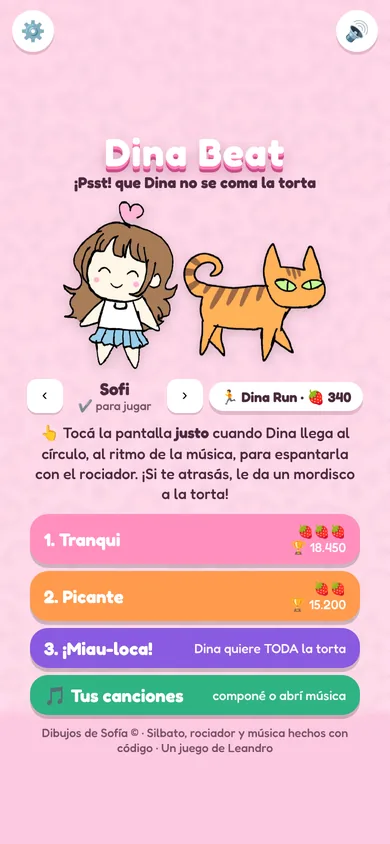
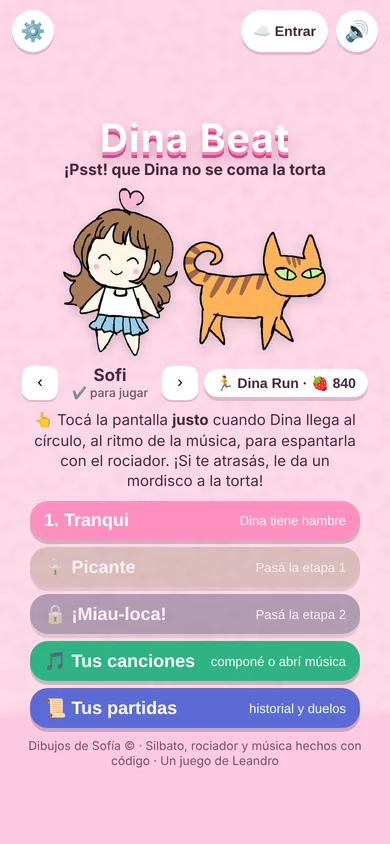
Portada: progreso en la nube, capturas nuevas (Sofi en Dina Run y Dina Beat, Cinthia en Torta Runner)
Claude-Session: https://claude.ai/code/session_01HEWaW1XwvhyT3fFeFD7JYR

diff --git a/index.html b/index.html
@@ -49,6 +49,7 @@ h1 em{font-style:normal;color:var(--rosa)}
 @keyframes cruza{from{transform:translateX(-90px)}to{transform:translateX(calc(100vw + 20px))}}
 @media (prefers-reduced-motion:reduce){.dina{animation:none;left:16px}}
 .bolsa{display:inline-flex;align-items:center;gap:8px;background:var(--papel);border:2px solid var(--borde);border-radius:999px;padding:6px 14px 6px 8px;font-weight:500}
+.bolsa[hidden]{display:none}
 .bolsa img{width:24px;height:24px;object-fit:contain}
 .bolsa b{font-variant-numeric:tabular-nums}
 
@@ -98,6 +99,7 @@ h2{margin:0;font:700 40px/1 var(--mano);color:var(--c-osc)}
 .proximo .ico{font-size:24px;line-height:1}
 .proximo h3{margin:0 0 2px;font:600 16px var(--ui)}
 .proximo p{margin:0;color:var(--suave);font-size:15px}
+.proximo p b{color:var(--tinta)}
 footer{font-size:14px;color:var(--suave);display:flex;flex-direction:column;gap:4px;border-top:3px dashed var(--borde);padding-top:16px}
 footer b{color:var(--tinta)}
 
@@ -123,22 +125,22 @@ footer b{color:var(--tinta)}
 
 <section class="juegos" aria-label="Juegos">
   <article class="juego run">
-    <div class="vista"><img src="img/dina-run.webp" alt="Partida de Dina Run: Sofi corre juntando frutillas mientras Dina la persigue" loading="lazy"></div>
+    <div class="vista"><img src="img/dina-run.webp" alt="Partida de Dina Run: Sofi salta una torta juntando frutillas mientras Dina la persigue" loading="lazy"></div>
     <div class="cuerpo">
       <div class="titulo"><img src="img/dina-run-icon.png" alt=""><div><h2>Dina Run</h2><p class="tipo">Corré sin parar · un toque</p></div></div>
       <p class="desc">Saltá las tortas, juntá frutillas y elegí dulces en el camino. Si chocás, Dina sale a correrte. Con personajes, cosméticos, Pastelería y, en Halloween, su pase.</p>
-      <ul class="chips"><li>🎃 Pase de Halloween</li><li>🐱 5 personajes</li><li>📲 Instalable</li></ul>
+      <ul class="chips"><li>🏆 Ranking de todos</li><li>☁ Guardado en la nube</li><li>🐱 5 personajes</li><li>📲 Instalable</li></ul>
       <p class="tuyo" id="tuyoRun"></p>
       <a class="jugar" href="https://kiut-studio.github.io/dina-run/">▶ Jugar</a>
     </div>
   </article>
 
   <article class="juego beat">
-    <div class="vista"><img src="img/dina-beat-menu.webp" alt="Menú de Dina Beat" loading="lazy"><img src="img/dina-beat-juego.webp" alt="Partida de Dina Beat: Dina baja hacia la torta al ritmo de la música" loading="lazy"></div>
+    <div class="vista"><img src="img/dina-beat-menu.webp" alt="Menú de Dina Beat con Sofi y Dina" loading="lazy"><img src="img/dina-beat-juego.webp" alt="Partida de Dina Beat: Dina baja hacia la torta al ritmo de la música" loading="lazy"></div>
     <div class="cuerpo">
       <div class="titulo"><img src="img/dina-beat-icon.png" alt=""><div><h2>Dina Beat</h2><p class="tipo">Ritmo · tocá a tiempo</p></div></div>
       <p class="desc">Dina baja a comerse la torta al ritmo de la música: espantala con el rociador justo a tiempo. Tres etapas, tus propias melodías y hasta tus canciones.</p>
-      <ul class="chips"><li>🎵 Tus canciones</li><li>🍓 Suma a tu bolsa</li><li>📲 Instalable</li></ul>
+      <ul class="chips"><li>🎵 Tus canciones</li><li>⚔ Desafíos</li><li>☁ Guardado en la nube</li><li>📲 Instalable</li></ul>
       <p class="tuyo" id="tuyoBeat"></p>
       <a class="jugar" href="https://kiut-studio.github.io/dina-beat/">▶ Jugar</a>
     </div>
@@ -152,13 +154,13 @@ footer b{color:var(--tinta)}
     <p class="desc">Donde empezó todo: el runner que hicimos en familia para un cumpleaños, con ranking familiar y fiesta al final. Queda como estaba, de recuerdo.</p>
     <a class="jugar" href="https://leandroacasco.github.io/torta-runner/">▶ Jugar el especial</a>
   </div>
-  <div class="vista2"><img src="img/torta-runner.webp" alt="Partida de Torta Runner" loading="lazy"></div>
+  <div class="vista2"><img src="img/torta-runner.webp" alt="Partida de Torta Runner: Cinthia salta juntando frutillas mientras Dina la persigue" loading="lazy"></div>
 </section>
 
 <div class="proximo">
   <span class="ico">☁</span>
-  <div><h3>Próximamente: tu progreso en la nube</h3>
-  <p>Por ahora tus frutillas y récords se guardan en este celular o compu. Pronto vas a poder guardarlos con tu cuenta y seguir en otro dispositivo.</p></div>
+  <div><h3>Tu progreso, en la nube</h3>
+  <p>En Dina Run o Dina Beat tocá <b>☁ Entrar</b> y entrá con tu cuenta de Google: tus frutillas, personajes y récords quedan guardados y seguís jugando en cualquier celular o compu. Es una sola cuenta para los dos juegos, y en Dina Run aparecés en el ranking con tu nombre y tu foto.</p></div>
 </div>
 
 <footer>

diff --git a/README.md b/README.md
@@ -13,6 +13,8 @@ Portada de los juegos con los dibujos de Sofía: **https://kiut-studio.github.io
 - Lee el progreso guardado de los juegos (están en el mismo sitio) para mostrar la bolsa de frutillas, el récord de Dina Run y las estrellas de Dina Beat. No guarda nada.
 - **No tiene copia sin conexión (service worker) ni `manifest.json` a propósito:** está en la raíz del sitio y se metería con las apps de cada juego.
 - Al cambiar el ícono o las capturas de un juego, copiarlos a `img/`.
+- **Capturas:** Dina Run y Dina Beat siempre con **Sofi**; Torta Runner con **Cinthia**. Sin tema de temporada (Halloween), así sirven todo el año. Tamaños: `dina-run.webp` 1200×667, `torta-runner.webp` 1320×610, `dina-beat-menu.webp` y `dina-beat-juego.webp` 390×844 (celular parado).
+- La cuenta de Google y la nube están en cada juego (Firebase `kiut-studio`); la portada solo lo cuenta.
 
 ## Créditos
 - Dibujos, personajes, animación y capturas: **Sofía** ©. Todos los derechos reservados.
